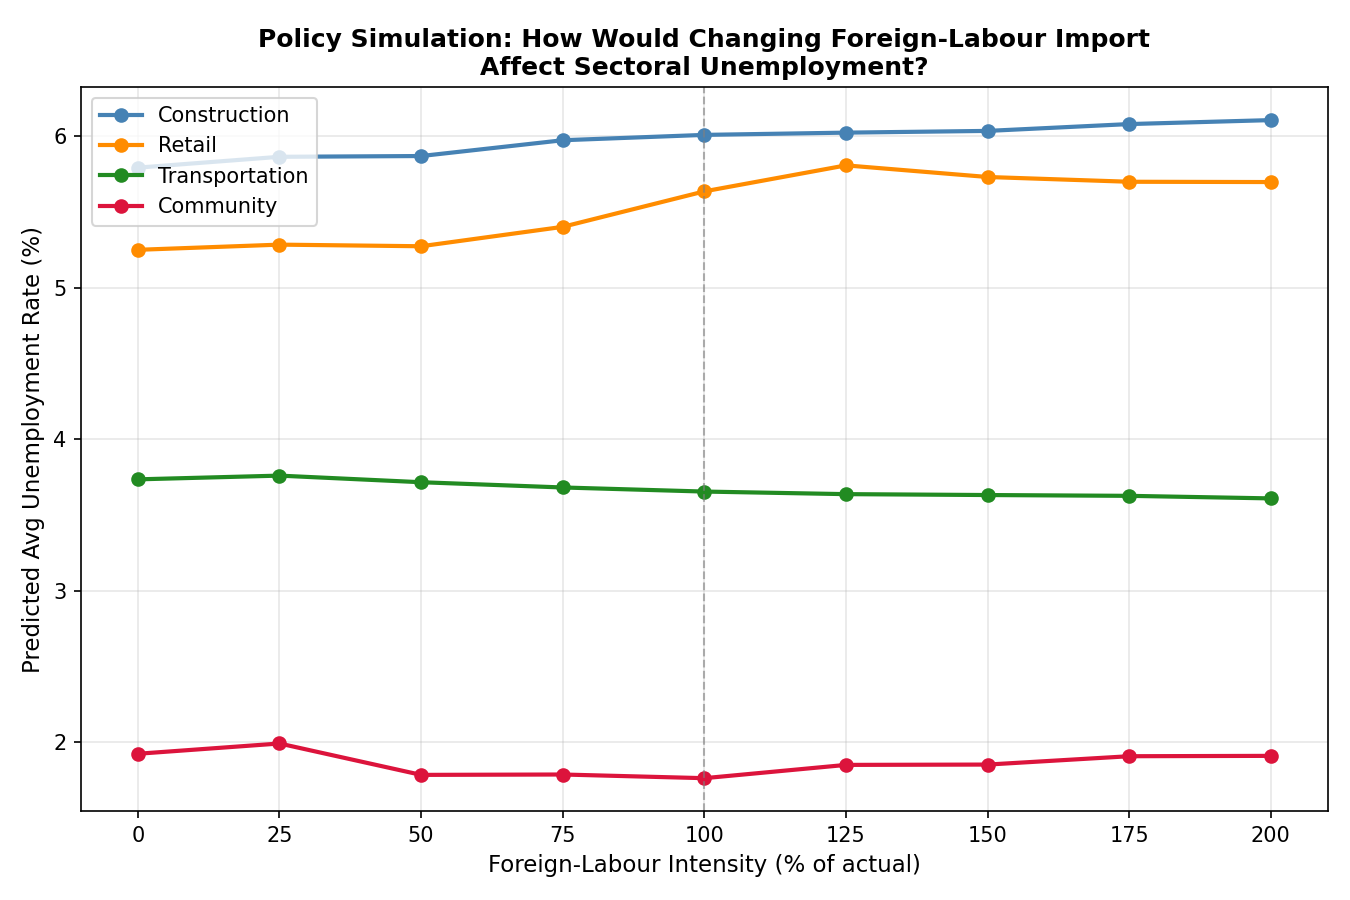
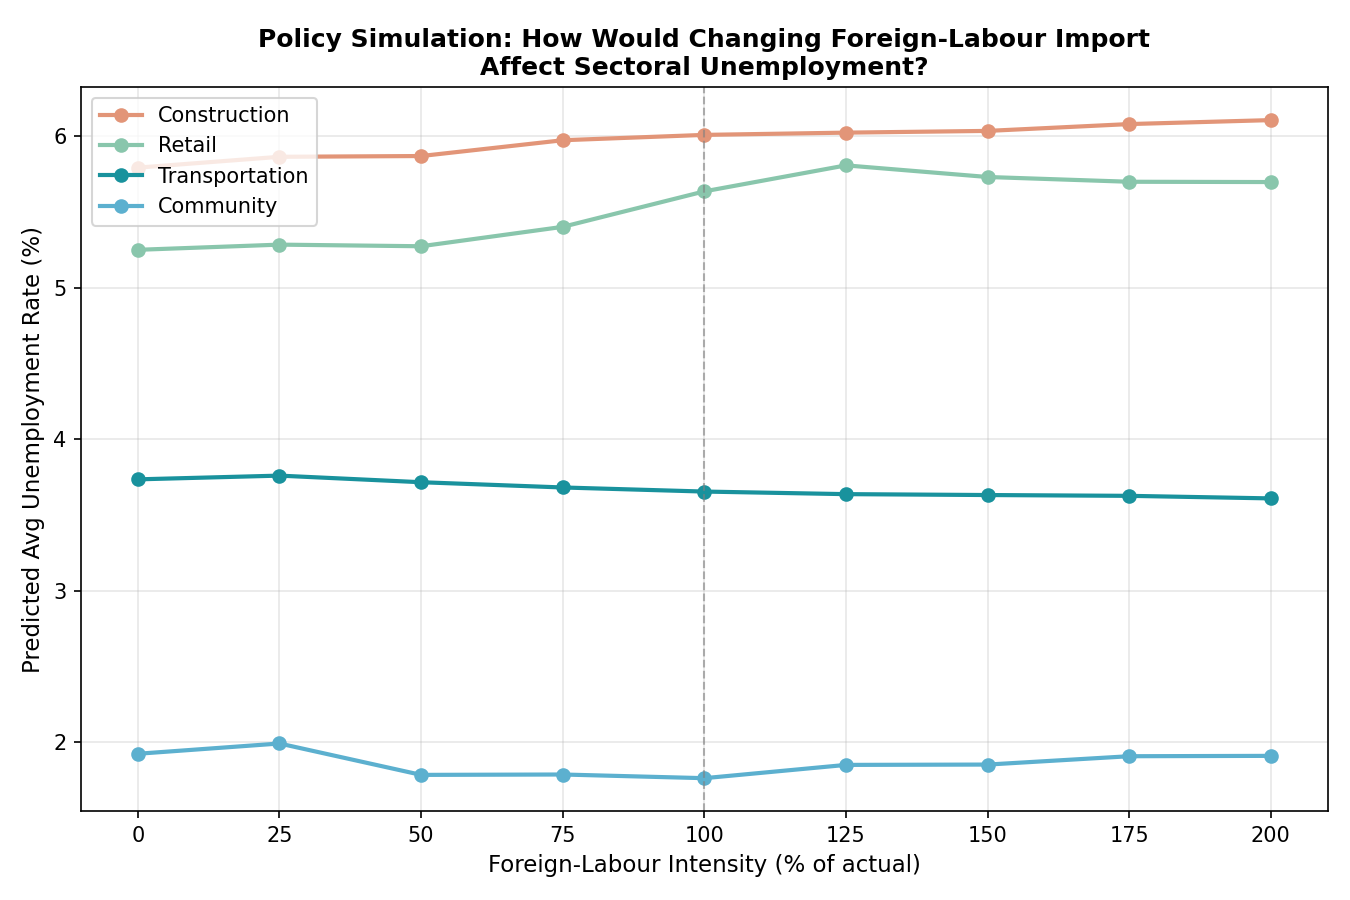
unify color code, and solve some bug in machine learning models

diff --git a/plot_data_overview.py b/plot_data_overview.py
@@ -37,6 +37,25 @@ MONTH_STR_TO_Q = {
     "Oct": 4, "Nov": 4, "Dec": 4,
 }
 
+SECTOR_COLORS = {
+    "Construction": "#e29578",
+    "Retail": "#89c6ac",
+    "Transportation": "#19929d",
+    "Community": "#5cb0cf",
+}
+
+MACRO_COLORS = {
+    "Imported Worker Ratio": SECTOR_COLORS["Construction"],
+    "GDP Year-on-Year Growth": SECTOR_COLORS["Retail"],
+    "Quarterly Inflation Rate": SECTOR_COLORS["Community"],
+    "HIBOR 3-Month Interest Rate": SECTOR_COLORS["Transportation"],
+}
+
+HEATMAP_CMAP = mcolors.LinearSegmentedColormap.from_list(
+    "sector_diverging",
+    [SECTOR_COLORS["Construction"], "#f7f4ef", SECTOR_COLORS["Retail"]],
+)
+
 
 # ── helpers ───────────────────────────────────────────────────────────────────
 
@@ -196,57 +215,68 @@ for folder in SECTOR_FOLDERS:
 # PLOT 1 – Time-series panel (economy-wide macro + imported workers)
 # ══════════════════════════════════════════════════════════════════════════════
 
-fig1, axes1 = plt.subplots(5, 1, figsize=(12, 14), sharex=True)
+fig1, axes1 = plt.subplots(5, 1, figsize=(16, 30), sharex=True, constrained_layout=True)
+
+# Helper function to apply styling to all plots to keep code clean
+def style_ax(ax, title, ylabel):
+    ax.set_title(title)
+    ax.set_ylabel(ylabel)
+    ax.grid(True, alpha=0.3)
+    # This adds 10% padding to the top/bottom so lines aren't cut off
+    ax.margins(y=0.1)
 
 axes1[0].plot(m1_t, m1_unemp, color="steelblue", linewidth=1.5)
-axes1[0].set_ylabel("Unemployment Rate (%)")
-axes1[0].set_title("Economy-Wide Unemployment Rate")
-axes1[0].grid(True, alpha=0.3)
+style_ax(axes1[0], "Economy-Wide Unemployment Rate", "Unemployment (%)")
 
 axes1[1].bar(
     [k[0] + (k[1] - 1) / 4 for k in m1_keys],
     m1_iw,
     width=0.2,
-    color="darkorange",
+    color=MACRO_COLORS["Imported Worker Ratio"],
     alpha=0.8,
 )
-axes1[1].set_ylabel("IW / Total Emp (%)")
-axes1[1].set_title("Imported Worker Ratio (Economy-Wide)")
+style_ax(axes1[1], "Imported Worker Ratio (Economy-Wide)", "IW / Total (%)")
 axes1[1].grid(True, alpha=0.3)
 
-axes1[2].plot(m1_t, m1_gdp, color="green", linewidth=1.5)
+axes1[2].plot(
+    m1_t,
+    m1_gdp,
+    color=MACRO_COLORS["GDP Year-on-Year Growth"],
+    linewidth=1.5,
+)
 axes1[2].axhline(0, color="black", linewidth=0.8, linestyle="--")
-axes1[2].set_ylabel("GDP YoY Change (%)")
+style_ax(axes1[2], "GDP Year-on-Year Growth", "GDP YoY Change (%)")
 axes1[2].set_title("GDP Year-on-Year Growth")
 axes1[2].grid(True, alpha=0.3)
 
-axes1[3].plot(m1_t, m1_infl, color="crimson", linewidth=1.5)
+axes1[3].plot(
+    m1_t,
+    m1_infl,
+    color=MACRO_COLORS["Quarterly Inflation Rate"],
+    linewidth=1.5,
+)
 axes1[3].axhline(0, color="black", linewidth=0.8, linestyle="--")
-axes1[3].set_ylabel("Inflation Rate (%)")
-axes1[3].set_title("Quarterly Inflation Rate")
-axes1[3].grid(True, alpha=0.3)
+style_ax(axes1[3], "Quarterly Inflation Rate", "Inflation (%)")
 
-axes1[4].plot(m1_t, m1_ir, color="purple", linewidth=1.5)
-axes1[4].set_ylabel("HIBOR 3M (%)")
-axes1[4].set_title("HIBOR 3-Month Interest Rate")
+axes1[4].plot(
+    m1_t,
+    m1_ir,
+    color=MACRO_COLORS["HIBOR 3-Month Interest Rate"],
+    linewidth=1.5,
+)
+axes1[4].axhline(0, color="black", linewidth=0.8, linestyle="--")
+style_ax(axes1[4], "HIBOR 3-Month Interest Rate", "HIBOR 3M (%)")
 # axes1[4].set_xlabel("Year")
 axes1[4].grid(True, alpha=0.3)
 
 # fig1.suptitle("Economy-Wide Time Series Overview", fontsize=13)
-plt.tight_layout()
+#plt.tight_layout()
 plt.show()
 
 
 # ══════════════════════════════════════════════════════════════════════════════
 # PLOT 2 – Sector unemployment time series (all four sectors + economy-wide)
 # ══════════════════════════════════════════════════════════════════════════════
-
-SECTOR_COLORS = {
-    "Construction": "saddlebrown",
-    "Retail": "darkorange",
-    "Transportation": "steelblue",
-    "Community": "forestgreen",
-}
 
 fig2, ax2 = plt.subplots(figsize=(12, 5))
 
@@ -286,7 +316,6 @@ x_pos = np.arange(len(all_years_iw))
 bar_width = 0.8 / n_sectors
 
 fig3, ax3 = plt.subplots(figsize=(12, 5))
-bar_colors = ["saddlebrown", "darkorange", "steelblue", "forestgreen"]
 for j, (sector, annual) in enumerate(sector_iw_annual.items()):
     values = [annual.get(y, 0) for y in all_years_iw]
     ax3.bar(
@@ -294,7 +323,7 @@ for j, (sector, annual) in enumerate(sector_iw_annual.items()):
         values,
         width=bar_width,
         label=sector,
-        color=bar_colors[j],
+        color=SECTOR_COLORS[sector],
         alpha=0.85,
     )
 
@@ -325,7 +354,7 @@ data_matrix = np.array([m1_unemp, m1_iw, m1_gdp, m1_infl, m1_ir, m1_lfpr])
 corr_matrix = np.corrcoef(data_matrix)
 
 fig4, ax4 = plt.subplots(figsize=(7, 6))
-cax = ax4.imshow(corr_matrix, vmin=-1, vmax=1, cmap="RdBu_r", aspect="auto")
+cax = ax4.imshow(corr_matrix, vmin=-1, vmax=1, cmap=HEATMAP_CMAP, aspect="auto")
 plt.colorbar(cax, ax=ax4, label="Pearson r")
 
 ax4.set_xticks(range(len(var_names)))

diff --git a/plot_unemployment_and_workers.py b/plot_unemployment_and_workers.py
@@ -1,0 +1,164 @@
+from pathlib import Path
+import csv
+
+import matplotlib.pyplot as plt
+
+
+BASE_DIR = Path(__file__).resolve().parent
+OUTPUT_DIR = BASE_DIR / "output"
+OUTPUT_PATH = OUTPUT_DIR / "unemployment_vs_approved_workers.png"
+
+UNEMPLOYMENT_COLOR = "#e29578"
+WORKERS_COLOR = "#e5f2e5"
+BLACK = "#000000"
+
+
+def parse_quarter_from_range(value):
+    if not value or "/" not in value:
+        return None
+    try:
+        left = value.split("-")[0].strip()
+        month_str, year_str = left.split("/")
+        month = int(month_str.strip())
+        year = int(year_str.strip())
+        quarter = ((month - 1) // 3) + 1
+        return year, quarter
+    except (ValueError, IndexError):
+        return None
+
+
+def read_quarterly_unemployment(file_path):
+    quarterly_rates = {}
+    with file_path.open(newline="", encoding="utf-8") as file:
+        reader = csv.DictReader(file)
+        for row in reader:
+            quarter_key = parse_quarter_from_range((row.get("Time") or "").strip())
+            rate_text = (row.get("Unemployment Rate Both") or "").strip()
+            if quarter_key is None or not rate_text:
+                continue
+            try:
+                quarterly_rates[quarter_key] = float(rate_text)
+            except ValueError:
+                continue
+
+    return quarterly_rates
+
+
+def read_quarterly_approved_workers(file_path):
+    quarterly_workers = {}
+    with file_path.open(newline="", encoding="utf-8") as file:
+        reader = csv.DictReader(file)
+        for row in reader:
+            year_text = (row.get("Year") or "").strip()
+            workers_text = (row.get("Number of Imported Workers Approved") or "").strip()
+            if not year_text.isdigit() or not workers_text:
+                continue
+            try:
+                year = int(year_text)
+                quarterly_workers.update(
+                    {
+                        (year, quarter): float(workers_text) / 4
+                        for quarter in range(1, 5)
+                    }
+                )
+            except ValueError:
+                continue
+    return quarterly_workers
+
+
+def format_quarter_label(period):
+    year, quarter = period
+    return f"{year} Q{quarter}"
+
+
+def style_axis(axis):
+    axis.tick_params(axis="both", colors=BLACK, labelcolor=BLACK)
+    axis.xaxis.label.set_color(BLACK)
+    axis.yaxis.label.set_color(BLACK)
+    for spine in axis.spines.values():
+        spine.set_color(BLACK)
+
+
+def main():
+    unemployment_by_quarter = read_quarterly_unemployment(BASE_DIR / "unemployment_rate.csv")
+    approved_workers_by_quarter = read_quarterly_approved_workers(BASE_DIR / "imported_workers.csv")
+
+    periods = sorted(set(unemployment_by_quarter) & set(approved_workers_by_quarter))
+    if not periods:
+        raise ValueError("No overlapping quarters were found in the source files.")
+
+    positions = list(range(len(periods)))
+    labels = [format_quarter_label(period) for period in periods]
+    unemployment_values = [unemployment_by_quarter[period] for period in periods]
+    approved_worker_values = [approved_workers_by_quarter[period] for period in periods]
+
+    OUTPUT_DIR.mkdir(exist_ok=True)
+
+    fig, workers_axis = plt.subplots(figsize=(12, 7))
+    unemployment_axis = workers_axis.twinx()
+
+    bars = workers_axis.bar(
+        positions,
+        approved_worker_values,
+        width=0.65,
+        color=WORKERS_COLOR,
+        edgecolor=WORKERS_COLOR,
+        linewidth=1.0,
+        label="Approved workers per quarter",
+        zorder=1,
+    )
+
+    unemployment_axis.set_zorder(workers_axis.get_zorder() + 1)
+    unemployment_axis.patch.set_visible(False)
+    line, = unemployment_axis.plot(
+        positions,
+        unemployment_values,
+        color=UNEMPLOYMENT_COLOR,
+        linewidth=3,
+        #marker="o",
+        markersize=7,
+        markerfacecolor=UNEMPLOYMENT_COLOR,
+        markeredgecolor=BLACK,
+        markeredgewidth=1.0,
+        label="Unemployment rate",
+        zorder=3,
+    )
+
+    fig.patch.set_facecolor("white")
+    workers_axis.set_facecolor("white")
+    workers_axis.set_title(
+        "Hong Kong Quarterly Unemployment Rate vs Approved Imported Workers",
+        color=BLACK,
+        pad=12,
+    )
+    workers_axis.set_xlabel("Quarter", color=BLACK)
+    workers_axis.set_ylabel("Approved workers per quarter", color=BLACK)
+    unemployment_axis.set_ylabel("Unemployment rate (%)", color=BLACK)
+    workers_axis.set_xticks(positions)
+    workers_axis.set_xticklabels(labels, rotation=45, ha="right")
+    workers_axis.set_xlim(min(positions) - 0.75, max(positions) + 0.75)
+    workers_axis.grid(axis="y", color=BLACK, alpha=0.15, linewidth=0.8)
+    workers_axis.set_axisbelow(True)
+
+    style_axis(workers_axis)
+    style_axis(unemployment_axis)
+
+    legend = workers_axis.legend(
+        handles=[line, bars],
+        labels=["Unemployment rate", "Approved workers per quarter"],
+        loc="upper left",
+        frameon=True,
+    )
+    legend.get_frame().set_edgecolor(BLACK)
+    legend.get_frame().set_facecolor("white")
+    legend.get_frame().set_alpha(1.0)
+    for text in legend.get_texts():
+        text.set_color(BLACK)
+
+    plt.tight_layout()
+    plt.savefig(OUTPUT_PATH, dpi=200, bbox_inches="tight")
+    print(f"Saved plot to: {OUTPUT_PATH}")
+
+
+if __name__ == "__main__":
+    main()

diff --git a/model_3/model_3_macro.py b/model_3/model_3_macro.py
@@ -60,6 +60,13 @@ SECTOR_CONFIG = {
     },
 }
 
+SECTOR_COLORS = {
+    "Construction": "#e29578",
+    "Retail": "#89c6ac",
+    "Transportation": "#19929d",
+    "Community": "#5cb0cf",
+}
+
 
 # ---------------------------------------------------------------------------
 # Parsing helpers
@@ -397,10 +404,11 @@ def main():
         gamma0, gamma1 = d["results"].params[0], d["results"].params[1]
         p1 = d["results"].pvalues[1]
         sig = "***" if p1 < 0.01 else ("**" if p1 < 0.05 else ("*" if p1 < 0.10 else ""))
+        color = SECTOR_COLORS[d["sector"]]
         ax = axes_sc[i]
-        ax.scatter(x, y, alpha=0.7, s=30)
+        ax.scatter(x, y, alpha=0.7, s=30, color=color)
         x_line = np.linspace(x.min(), x.max(), 100)
-        ax.plot(x_line, gamma0 + gamma1 * x_line, color="red", linewidth=1.5)
+        ax.plot(x_line, gamma0 + gamma1 * x_line, color=color, linewidth=1.5)
         ax.set_xlabel("Intensity (IW / Employment)")
         ax.set_ylabel("Unemployment Rate (%)")
         ax.set_title(d["sector"])
@@ -420,7 +428,6 @@ def main():
     plt.show()
 
     # ── Combined: all 4 sectors on one plot ───────────────────────────────────
-    COMBINED_COLORS = ["steelblue", "darkorange", "forestgreen", "crimson"]
     fig_comb, ax_comb = plt.subplots(figsize=(9, 5))
     for i, d in enumerate(plot_data):
         x = np.array([r["Intensity"] for r in d["dataset"]])
@@ -428,7 +435,7 @@ def main():
         gamma0, gamma1 = d["results"].params[0], d["results"].params[1]
         p1 = d["results"].pvalues[1]
         sig = "***" if p1 < 0.01 else ("**" if p1 < 0.05 else ("*" if p1 < 0.10 else ""))
-        color = COMBINED_COLORS[i % len(COMBINED_COLORS)]
+        color = SECTOR_COLORS[d["sector"]]
         ax_comb.scatter(x, y, alpha=0.45, s=25, color=color)
         x_line = np.linspace(x.min(), x.max(), 100)
         ax_comb.plot(

diff --git a/model_3/model_3_ml.py b/model_3/model_3_ml.py
@@ -67,12 +67,11 @@ SECTOR_CONFIG = {
 }
 
 SECTOR_COLORS = {
-    "Construction": "steelblue",
-    "Retail": "darkorange",
-    "Transportation": "forestgreen",
-    "Community": "crimson",
+    "Construction": "#e29578",
+    "Retail": "#89c6ac",
+    "Transportation": "#19929d",
+    "Community": "#5cb0cf",
 }
-
 
 # ---------------------------------------------------------------------------
 # Parsing helpers
@@ -571,8 +570,19 @@ def plot_sector_unemployment_decomposition(gb, X, y, feature_names, sector_label
     the mean SHAP contribution of each feature.
     """
     explainer = shap.TreeExplainer(gb)
-    shap_values = explainer.shap_values(X)
-    base_value = float(explainer.expected_value)
+    shap_values = np.asarray(explainer.shap_values(X))
+    if shap_values.ndim == 3 and shap_values.shape[-1] == 1:
+        shap_values = shap_values[..., 0]
+    if shap_values.ndim != 2:
+        raise ValueError(
+            "Expected 2D SHAP values for single-output regression, "
+            f"got shape {shap_values.shape}."
+        )
+
+    base_value_arr = np.asarray(explainer.expected_value)
+    if base_value_arr.size == 0:
+        raise ValueError("SHAP expected_value is empty.")
+    base_value = float(base_value_arr.reshape(-1)[0])
 
     sectors_unique = list(SECTOR_CONFIG.keys())
     n_features = len(feature_names)
